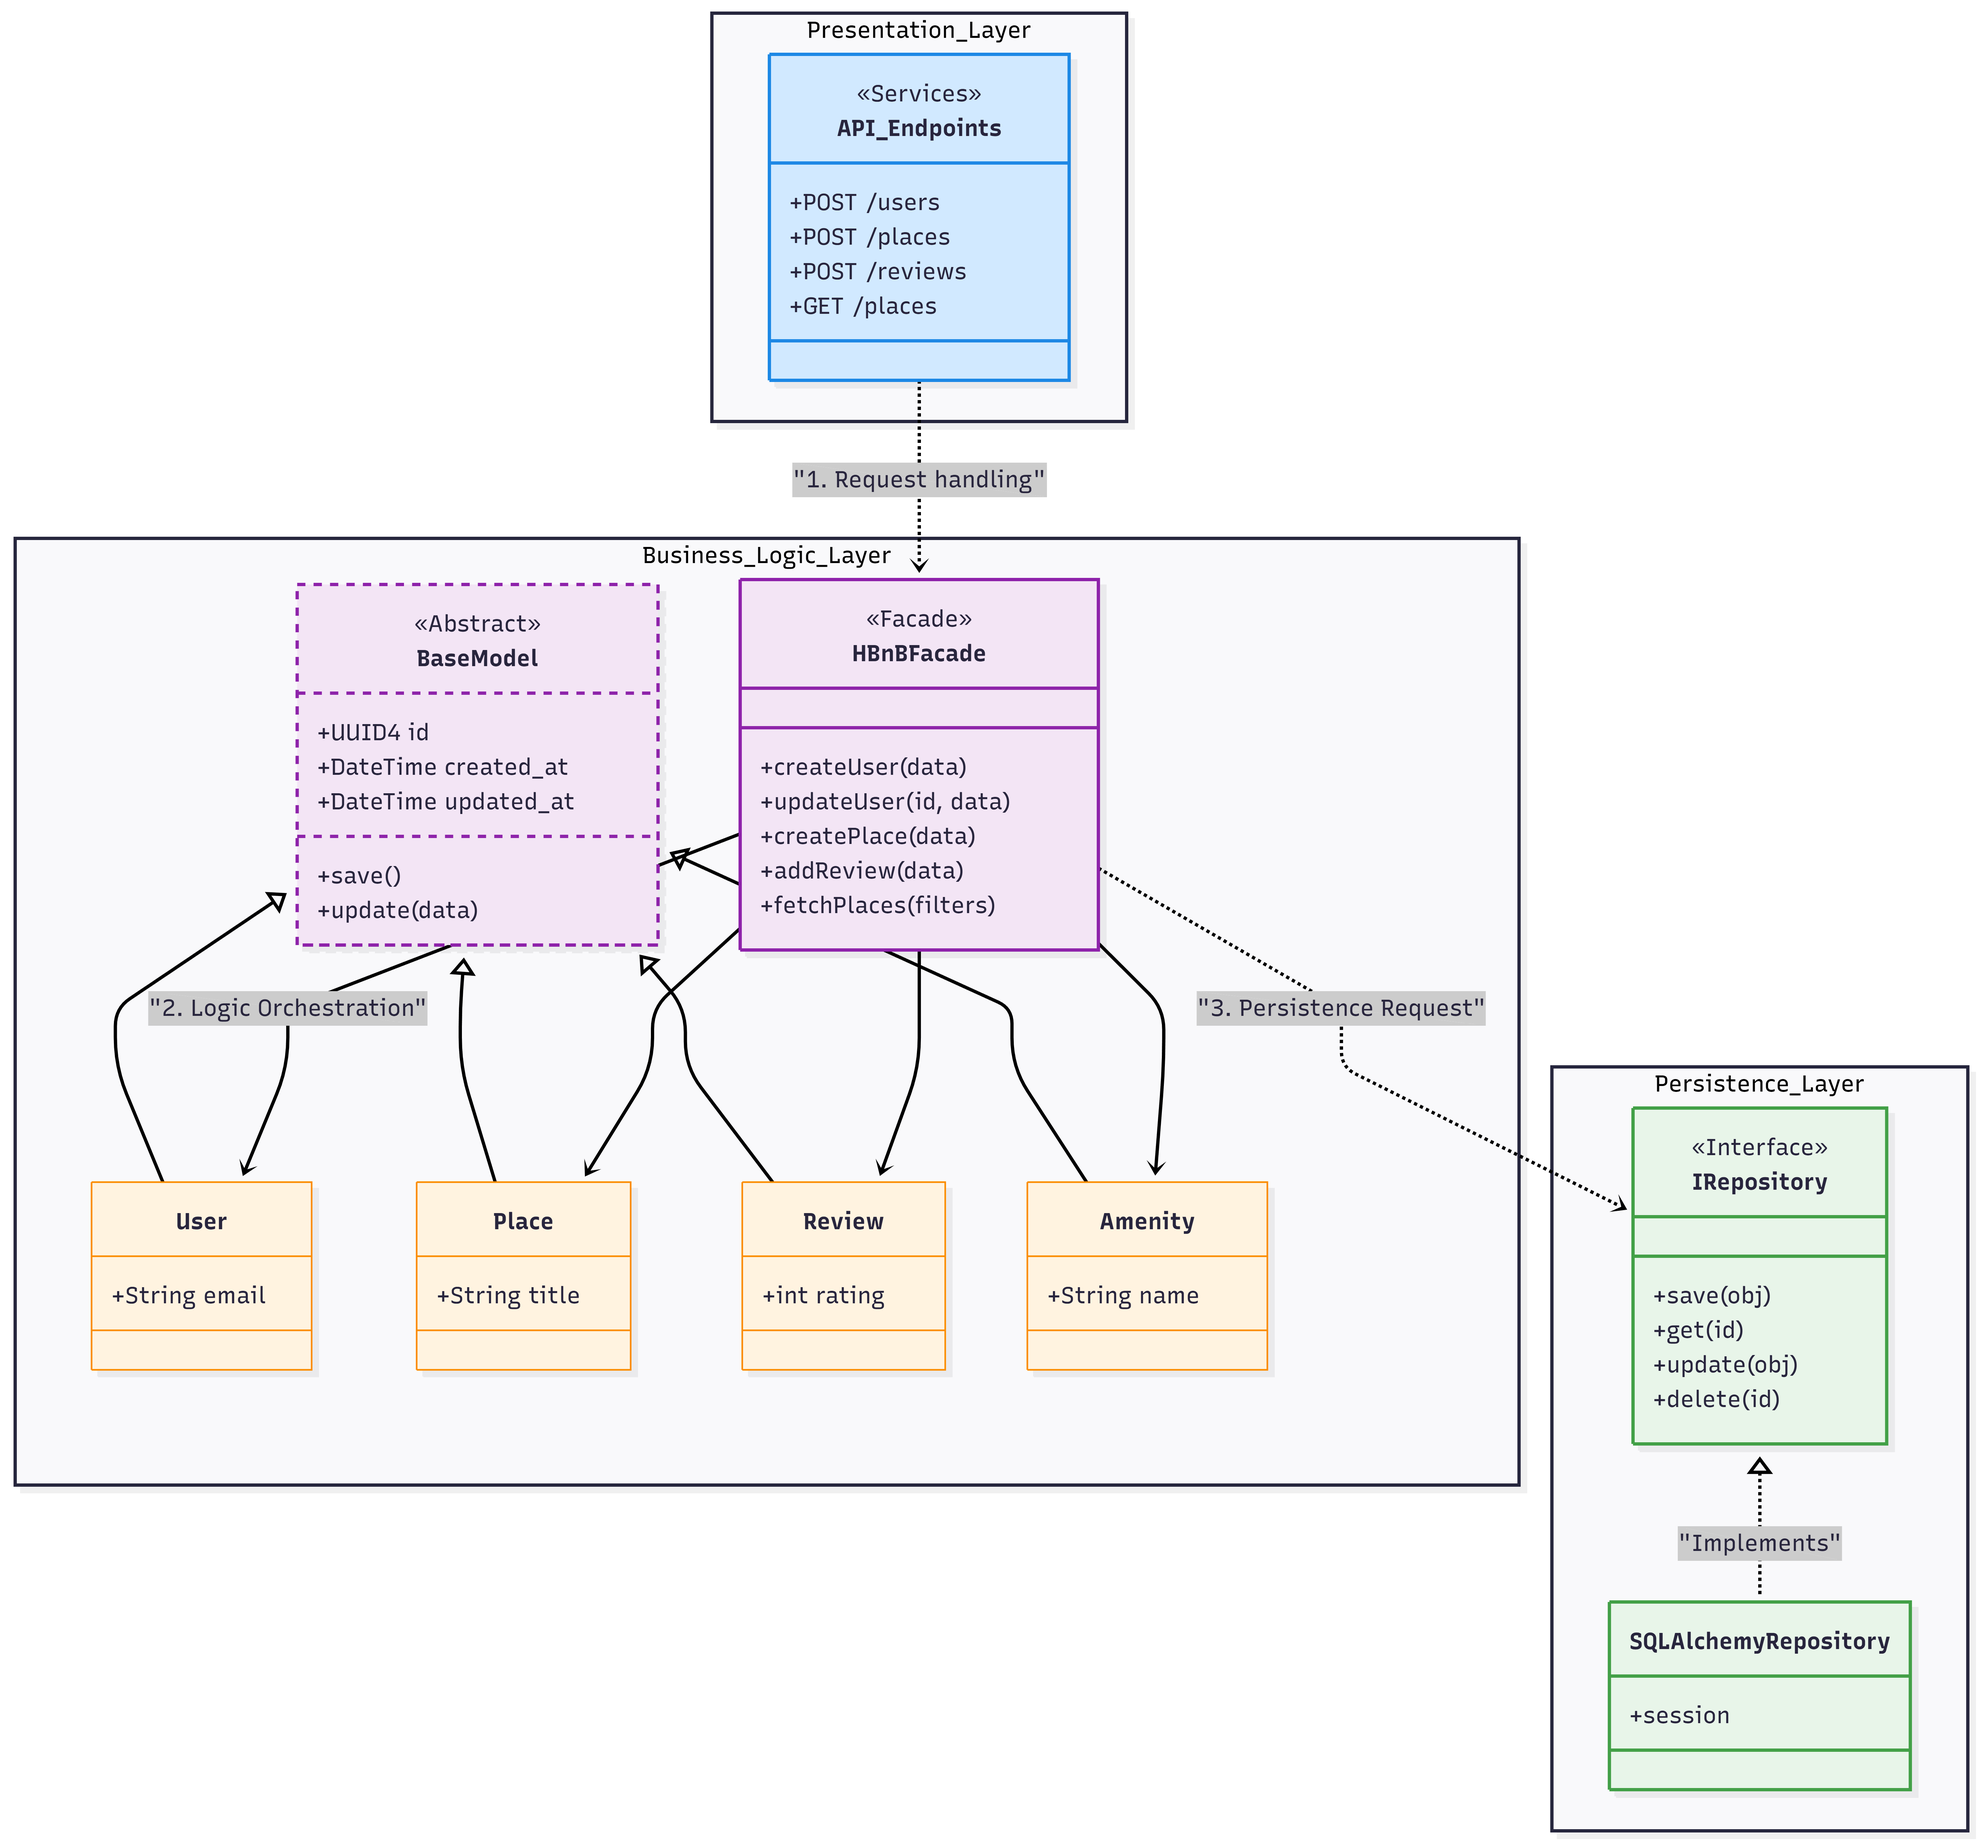
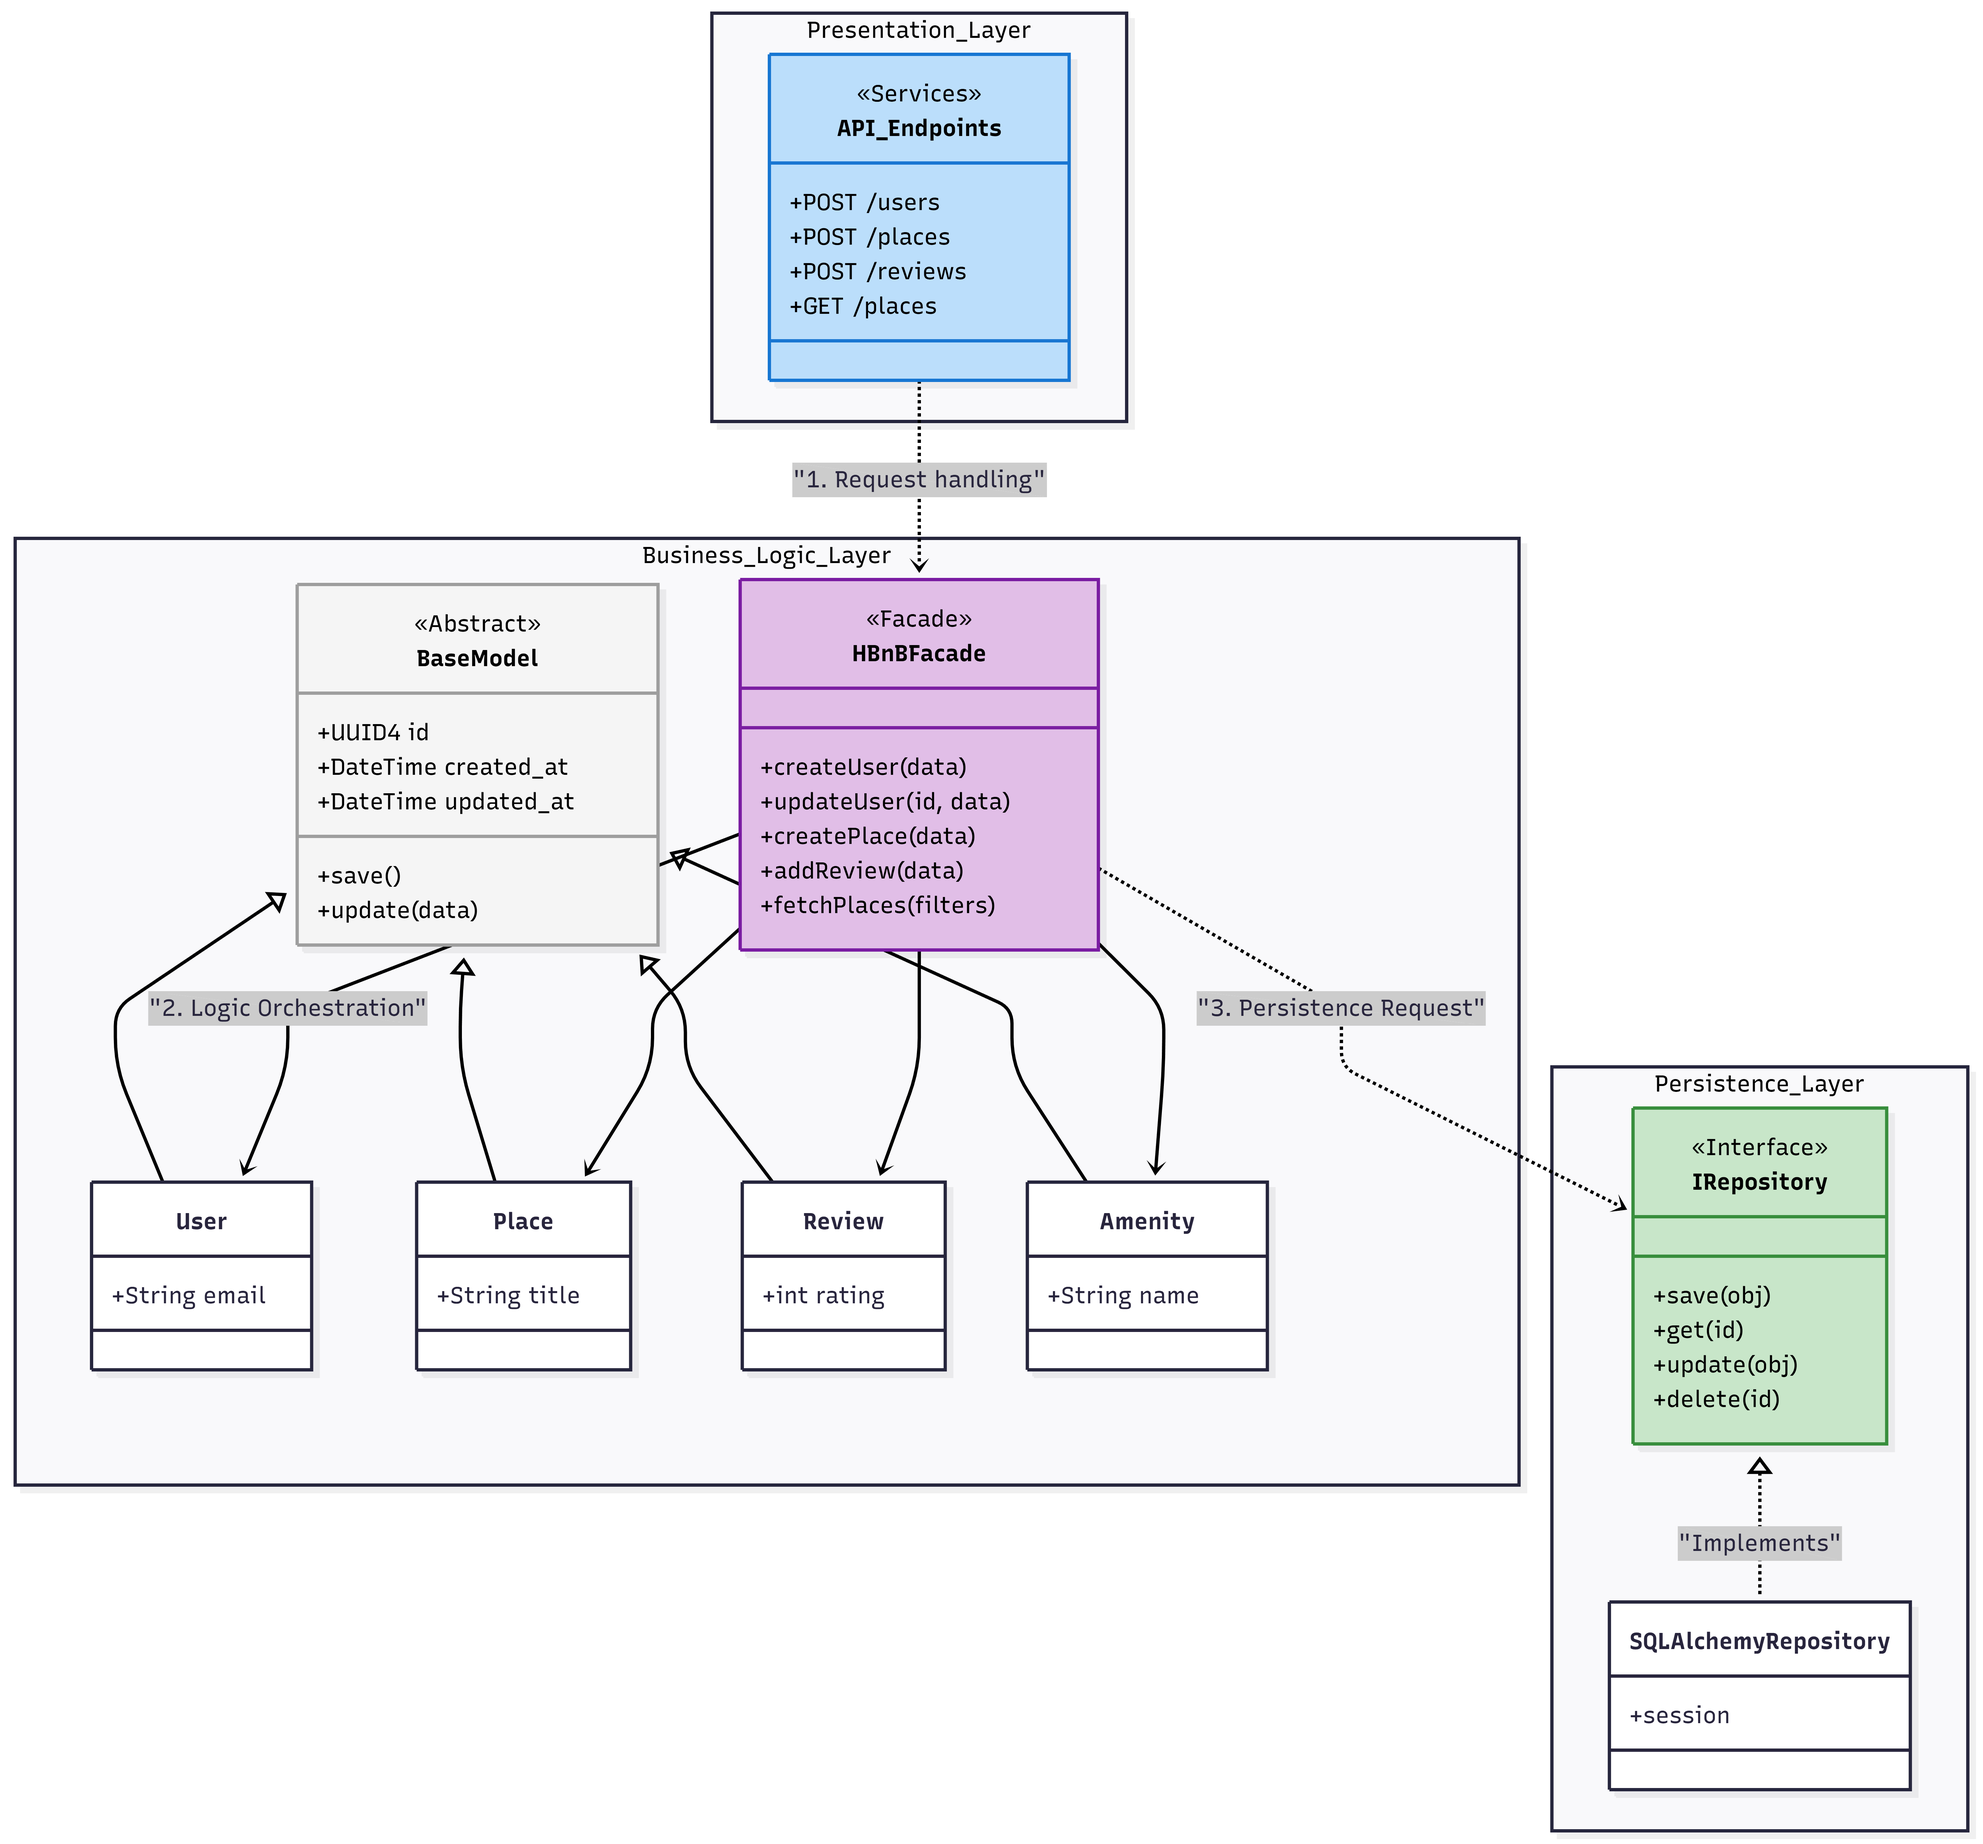
feat: finalized documentation with improved diagram visibility

diff --git a/part1/DOCUMENTATION_en.md b/part1/DOCUMENTATION_en.md
@@ -1,4 +1,6 @@
 # HBnB Evolution: Technical Documentation
+This technical document serves as a comprehensive blueprint for the HBnB Evolution project.  
+It outlines the system architecture, business logic entities, and detailed API interaction flows to guide the implementation phase.
 # 0. Package Diagram 
 
 ```mermaid
@@ -22,7 +24,7 @@ classDiagram
             +updateUser(id, data)
             +createPlace(data)
             +addReview(data)
-            +getPlaces(filters)
+            +fetchPlaces(filters)
         }
         class BaseModel {
             <<Abstract>>
@@ -71,17 +73,10 @@ classDiagram
     IRepository <|.. SQLAlchemyRepository : "Implements"
 
     %% Style / Colors
-    style API_Endpoints fill:#d1e9ff,stroke:#1e88e5,stroke-width:2px
-
-    style HBnBFacade fill:#f3e5f5,stroke:#8e24aa,stroke-width:2px
-    style BaseModel fill:#f3e5f5,stroke:#8e24aa,stroke-width:2px,stroke-dasharray: 5 5
-    style User fill:#fff3e0,stroke:#fb8c00,stroke-width:1px
-    style Place fill:#fff3e0,stroke:#fb8c00,stroke-width:1px
-    style Review fill:#fff3e0,stroke:#fb8c00,stroke-width:1px
-    style Amenity fill:#fff3e0,stroke:#fb8c00,stroke-width:1px
-
-    style IRepository fill:#e8f5e9,stroke:#43a047,stroke-width:2px
-    style SQLAlchemyRepository fill:#e8f5e9,stroke:#43a047,stroke-width:2px    
+    style API_Endpoints fill:#bbdefb,stroke:#1976d2,color:#000
+    style HBnBFacade fill:#e1bee7,stroke:#7b1fa2,color:#000
+    style BaseModel fill:#f5f5f5,stroke:#9e9e9e,color:#000
+    style IRepository fill:#c8e6c9,stroke:#388e3c,color:#000 
 ```
 # Architecture Overview
 The HBnB application is designed using a **three-tier layered architecture**.  
@@ -100,7 +95,7 @@ This layer contains the "intelligence" of the system and is subdivided into two 
     + `updateUser(id, data)`
     + `createPlace(data)`
     + `addReview(data)`
-    + `getPlaces(filters)`
+    + `fetchPlaces(filters)`
 *   **Domain Models**: Entities like `User`, `Place`, `Review`, and `Amenity` define the core business objects. 
 *   **BaseModel (Abstract Class)**: All entities inherit from this base class to ensure consistency. It provides universal attributes like `UUID4 id` and audit timestamps (`created_at`, `updated_at`), common methods (`save()`, `update(data)`) facilitating the **DRY (Don't Repeat Yourself) principle**.
 ---
@@ -140,8 +135,7 @@ classDiagram
         +String email
         +String password
         +Boolean is_admin
-        +register()
-        +update_profile()
+        +update_profile(data)
     }
 
     class Place {
@@ -151,8 +145,8 @@ classDiagram
         +Float latitude
         +Float longitude
         +String owner_id
-        +list_all()
         +add_amenity(amenity_id)
+        +update_details(data)
     }
 
     class Review {
@@ -160,13 +154,12 @@ classDiagram
         +String comment
         +String place_id
         +String user_id
-        +listed()
+        +validate_rating()
     }
 
     class Amenity {
         +String name
         +String description
-        +listed()
     }
 
     %% Relation
@@ -190,18 +183,33 @@ classDiagram
     style Amenity fill:#55A358,color:#ffffff
 ```
 #   Explanatory Notes
----
+The **Business Logic Layer** is the core of the HBnB application. It defines the structure, behavior, and rules of the system's entities. This layer is designed to be independent of the database and the UI, ensuring that business rules are enforced consistently across the entire application.
 ##   Entities:
--   **BaseModel**: The foundation of all classes. It encapsulates the UUID4 unique identifier and audit timestamps (`created_at, updated_at`), ensuring that every object in the system is traceable and unique.
+-   **BaseModel**: 
+    +   The foundation of all classes. It encapsulates the `UUID4` unique identifier and audit timestamps (`created_at, updated_at`), ensuring that every object in the system is traceable and unique. 
+    +   `save()`, `update()`, and `delete()` manage the basic lifecycle state of an instance before it is handed over to the persistence layer.
 -   **User**: Represents a registered individual. It holds essential data like email and password, and manages roles (admin vs. regular user).
--   **Place**: Represents the properties listed. It includes geographical coordinates and pricing.
+    +   Includes names, unique email, and an `is_admin` flag for authorization logic
+    +   `update_profile(data)` allows the entity to manage its own state changes, adhering to the **Encapsulation** principle.
+-   **Place**: Represents the properties listed. It includes geographical coordinates and pricing. 
+    +   Stores physical details (coordinates, description) and pricing. It is linked to a `User` (Owner).
+    +   `add_amenity()` manages the association with features, and `update_details()` allows for property modifications.
 -   **Review**: A feedback entity that links a `User` with a `Place` through a rating and a comment.
+    +   Contains a numeric rating and a text comment.
+    +   `validate_rating()` ensures the data adheres to business rules (e.g., rating between 1 and 5) before persistence.
 -   **Amenity**: Standalone features (like "WiFi" or "Pool") that enhance a Place.
 
 ##  Relationships:
 -   **Inheritance**: All core entities inherit from `BaseModel`, promoting code reuse and a standardized data structure for auditing. By centralizing these attributes, any future entities added to the system will automatically inherit the ability to be uniquely identified via UUID4 and tracked through creation and update timestamps.
--   **Many-to-Many (Place ↔ Amenity)**: Modeled this way because a single property can have multiple amenities, and a single type of amenity can be associated with many properties.
--   **One-to-Many (User → Place/Review)**: A user can own multiple places and write multiple reviews, but each place/review belongs to a single author/owner.
+-   **One-to-Many (User → Place/Review)**: 
+    +   A user can own multiple `Places` and write multiple `Reviews`.
+    +   Each `Place` or `Review` belongs to a single `User`.
+-   **Composition (Place ↔ Review)**: We used a Composition relationship (*--). 
+    +   This implies that a `Review` cannot exist without a `Place`. 
+    +   If a `Place` is deleted, its associated `Reviews` are also removed to maintain data integrity.
+-   **Many-to-Many (Place ↔ Amenity)**: 
+    +   A `Place` can have multiple `Amenities`
+    +   An `Amenity` type can be associated with many different `Places`.
 
 ---
 ---
@@ -310,14 +318,14 @@ sequenceDiagram
     API->>HBnBFacade: addReview(data)
     HBnBFacade->>HBnBFacade: validate rules<br/>(comment size + note)
 
-    alt Rules validation fail
+    alt Rules validation fails
         HBnBFacade-->>API: ValidationError
         API-->>User: 400 Bad Request
     else User not authorized<br/>(e.g, not connected)
         HBnBFacade-->>API: Unauthorized access
         API-->>User: 403 Forbidden
     else Review created successfully
-        %% We validate the data before sendint to Repo
+        %% We validate the data before sending to Repo
         HBnBFacade->>Repository: save(review_object)
         Repository-->>HBnBFacade: success (review_id)
         HBnBFacade-->>API: success
@@ -332,11 +340,11 @@ end
 -   The **sequence diagram** illustrates how the HBnBFacade validates review content and coordinates with the **Repository** only after all business rules are satisfied.
 
 ##  Flow of Interactions :
-1)   **Request**: The User sends a `POST /reviews` reques to the `API (Presentation Layer)` with a rating, a comment and a `place_id`
+1)   **Request**: The User sends a `POST /reviews` request to the `API (Presentation Layer)` with a rating, a comment and a `place_id`
 2)   **Delegation**: The API receives the request and forwards it to the **HBnBFacade** via the `addReview(data)` method.
 3)   **Business Logic Validation**: The HBnBFacade validates that the rating is within the allowed range (e.g., 1-5) and checks the comment length.
-4)   The **Repository** ensures referential integrity, verifying that both the `place_id` and `user_id` exist before persisting the data."
-5)   **Error Handling (Fail-Fast)**: If the validation fail:
+4)   The **Repository** ensures referential integrity, verifying that both the `place_id` and `user_id` exist before persisting the data.
+5)   **Error Handling (Fail-Fast)**: If the validation fails:
     -   If the validation fails, the HBnBFacade returns a `ValidationError`, and the API responds with a **400 Bad Request**.
     -   If the user is not authorized or not connected, the system returns an `Unauthorized access` error, and the API responds with a **403 Forbidden**.
 6)  **Persistence**: If all validations pass, the HBnBFacade prepares the `review_object` and calls the `save()` method of the Repository. 
@@ -371,7 +379,7 @@ sequenceDiagram
         Repository-->>HBnBFacade: list_of_places
         HBnBFacade-->>API: success
         API-->>User: 200 OK + list
-    end
+end
 ```
 
 #   Explanatory Notes
